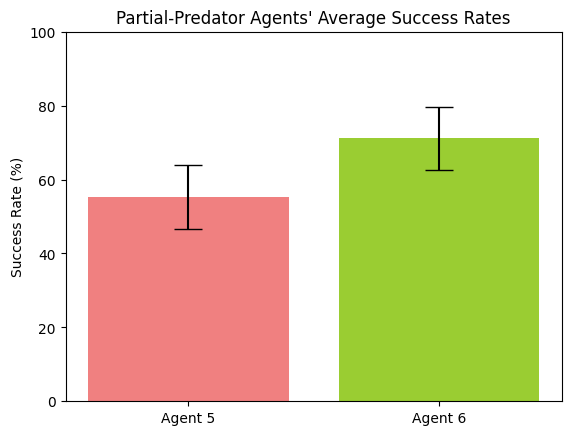
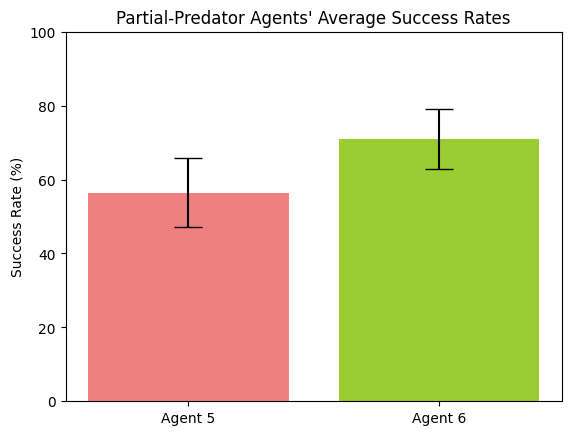
removed duplicate found_prey/found_pred

diff --git a/game/game.py b/game/game.py
@@ -49,6 +49,22 @@ class Game:
         # initializes the number of steps before timing out
         self.timeout = timeout
 
+        # initializes the number of steps the agent took
+        self.steps = 0
+
+    def step_return_values(self, status, found_prey, found_pred):
+        """
+        returns status & found_prey/found_pred as a percentage of total moves
+        """
+        if found_prey is not None and found_pred is not None:
+            return status, found_prey/self.steps * 100, found_pred/self.steps * 100
+        elif found_prey is not None:
+            return status, found_prey/self.steps * 100, found_pred
+        elif found_pred is not None:
+            return status, found_prey, found_pred/self.steps * 100
+        else:
+            return status, found_prey, found_pred
+
     def step(self):
         """
         moves the agent, prey, and predator one step
@@ -60,25 +76,27 @@ class Game:
 
         also returns number of times agent knew the exact location of the prey and the pred in the partial information settings
         """
+        self.steps = self.steps + 1
+
         found_prey, found_pred = self.agent.move(
             self.graph, self.prey, self.predator)
         self.agent_trajectories.append(self.agent.location)
         if self.agent.location == self.prey.location:
-            return 1, found_prey, found_pred
+            return self.step_return_values(1, found_prey, found_pred)
         if self.agent.location == self.predator.location:
-            return -1, found_prey, found_pred
+            return self.step_return_values(-1, found_prey, found_pred)
 
         self.prey.move(self.graph)
         self.prey_trajectories.append(self.prey.location)
         if self.agent.location == self.prey.location:
-            return 1, found_prey, found_pred
+            return self.step_return_values(1, found_prey, found_pred)
 
         self.predator.move(self.graph, self.agent)
         self.predator_trajectories.append(self.predator.location)
         if self.agent.location == self.predator.location:
-            return -1, found_prey, found_pred
+            return self.step_return_values(-1, found_prey, found_pred)
 
-        return 0, found_prey, found_pred
+        return self.step_return_values(0, found_prey, found_pred)
 
     def step_debug(self):
         """

diff --git a/main.py b/main.py
@@ -398,30 +398,30 @@ def labreport_simulation_statistics_agent8C():
 if __name__ == "__main__":
     # labreport_simulation_statistics_agent1()
     # labreport_simulation_statistics_agent2()
-    simulation_statistics.visualize(
-        "data/", "simulation_statistics_complete.json")
+    # simulation_statistics.visualize(
+    #     "data/", "simulation_statistics_complete.json")
 
     # labreport_simulation_statistics_agent3()
     # labreport_simulation_statistics_agent4()
-    simulation_statistics.visualize(
-        "data/", "simulation_statistics_partial-prey.json")
+    # simulation_statistics.visualize(
+    #     "data/", "simulation_statistics_partial-prey.json")
 
     # labreport_simulation_statistics_agent5()
     # labreport_simulation_statistics_agent6()
-    simulation_statistics.visualize(
-        "data/", "simulation_statistics_partial-predator.json")
+    # simulation_statistics.visualize(
+    #     "data/", "simulation_statistics_partial-predator.json")
 
     # labreport_simulation_statistics_agent7()
     # labreport_simulation_statistics_agent8()
-    simulation_statistics.visualize(
-        "data/", "simulation_statistics_combined-partial.json")
+    # simulation_statistics.visualize(
+    #     "data/", "simulation_statistics_combined-partial.json")
 
     # labreport_simulation_statistics_agent7B()
     # labreport_simulation_statistics_agent8B()
-    simulation_statistics.visualize(
-        "data/", "simulation_statistics_combined-partial-defective.json")
+    # simulation_statistics.visualize(
+    #     "data/", "simulation_statistics_combined-partial-defective.json")
 
-    labreport_simulation_statistics_agent7C()
-    labreport_simulation_statistics_agent8C()
+    # labreport_simulation_statistics_agent7C()
+    # labreport_simulation_statistics_agent8C()
     simulation_statistics.visualize(
         "data/", "simulation_statistics_combined-partial-defective-updated.json")

diff --git a/game/agents/agent3.py b/game/agents/agent3.py
@@ -118,9 +118,6 @@ class Agent3(Agent1):
         self.frontier = set()
         self.frontier.add(surveyed_node)
 
-        # ADDS IT TO PREVOIUS PREY LOCATIONS SEEN
-        self.prev_prey_locations.append(surveyed_node)
-
     def init_probs_step4(self, graph, surveyed_node):
         """
         CORE: SURVEYED NODE DOESN'T CONTAIN PREY BUT WE FOUND A PREY BEFORE!

diff --git a/game/agents/agent4.py b/game/agents/agent4.py
@@ -132,9 +132,6 @@ class Agent4(Agent2):
         self.frontier = set()
         self.frontier.add(surveyed_node)
 
-        # ADDS IT TO PREVOIUS PREY LOCATIONS SEEN
-        self.prev_prey_locations.append(surveyed_node)
-
     def init_probs_step4(self, graph, surveyed_node):
         """
         CORE: SURVEYED NODE DOESN'T CONTAIN PREY BUT WE FOUND A PREY BEFORE!

diff --git a/game/agents/agent6.py b/game/agents/agent6.py
@@ -151,9 +151,6 @@ class Agent6(Agent2):
         self.frontier = set()
         self.frontier.add(surveyed_node)
 
-        # WE FOUND THE PREDATOR!
-        self.pred_prev_locations.append(surveyed_node)
-
         self.update_beliefs(graph)
 
     def init_probs_step3(self, graph):

diff --git a/game/agents/agent5.py b/game/agents/agent5.py
@@ -96,9 +96,6 @@ class Agent5(Agent1):
         self.frontier = set()
         self.frontier.add(surveyed_node)
 
-        # WE FOUND THE PREDATOR!
-        self.pred_prev_locations.append(surveyed_node)
-
         self.update_beliefs(graph)
 
     def init_probs_step3(self, graph):

diff --git a/game/agents/agent7c.py b/game/agents/agent7c.py
@@ -313,8 +313,6 @@ class Agent7C(Agent1):
         self.pred_frontier = set()
         self.pred_frontier.add(surveyed_node)
 
-        self.prev_preds.append(surveyed_node)
-
         self.pred_update_beliefs(graph)
 
     def pred_belief_update_2(self, graph, surveyed_node):

diff --git a/game/agents/agent8c.py b/game/agents/agent8c.py
@@ -323,8 +323,6 @@ class Agent8C(Agent2):
         self.pred_frontier = set()
         self.pred_frontier.add(surveyed_node)
 
-        self.prev_preds.append(surveyed_node)
-
         self.pred_update_beliefs(graph)
 
     def pred_belief_update_2(self, graph, surveyed_node):

diff --git a/game/agents/agent7b.py b/game/agents/agent7b.py
@@ -287,8 +287,6 @@ class Agent7B(Agent1):
         self.pred_frontier = set()
         self.pred_frontier.add(surveyed_node)
 
-        self.prev_preds.append(surveyed_node)
-
         self.pred_update_beliefs(graph)
 
     def pred_belief_update_2(self, graph):

diff --git a/game/agents/agent8b.py b/game/agents/agent8b.py
@@ -297,8 +297,6 @@ class Agent8B(Agent2):
         self.pred_frontier = set()
         self.pred_frontier.add(surveyed_node)
 
-        self.prev_preds.append(surveyed_node)
-
         self.pred_update_beliefs(graph)
 
     def pred_belief_update_2(self, graph):

diff --git a/game/agents/agent7.py b/game/agents/agent7.py
@@ -286,8 +286,6 @@ class Agent7(Agent1):
         self.pred_frontier = set()
         self.pred_frontier.add(surveyed_node)
 
-        self.prev_preds.append(surveyed_node)
-
         self.pred_update_beliefs(graph)
 
     def pred_belief_update_2(self, graph):

diff --git a/game/agents/agent8.py b/game/agents/agent8.py
@@ -296,8 +296,6 @@ class Agent8(Agent2):
         self.pred_frontier = set()
         self.pred_frontier.add(surveyed_node)
 
-        self.prev_preds.append(surveyed_node)
-
         self.pred_update_beliefs(graph)
 
     def pred_belief_update_2(self, graph):
